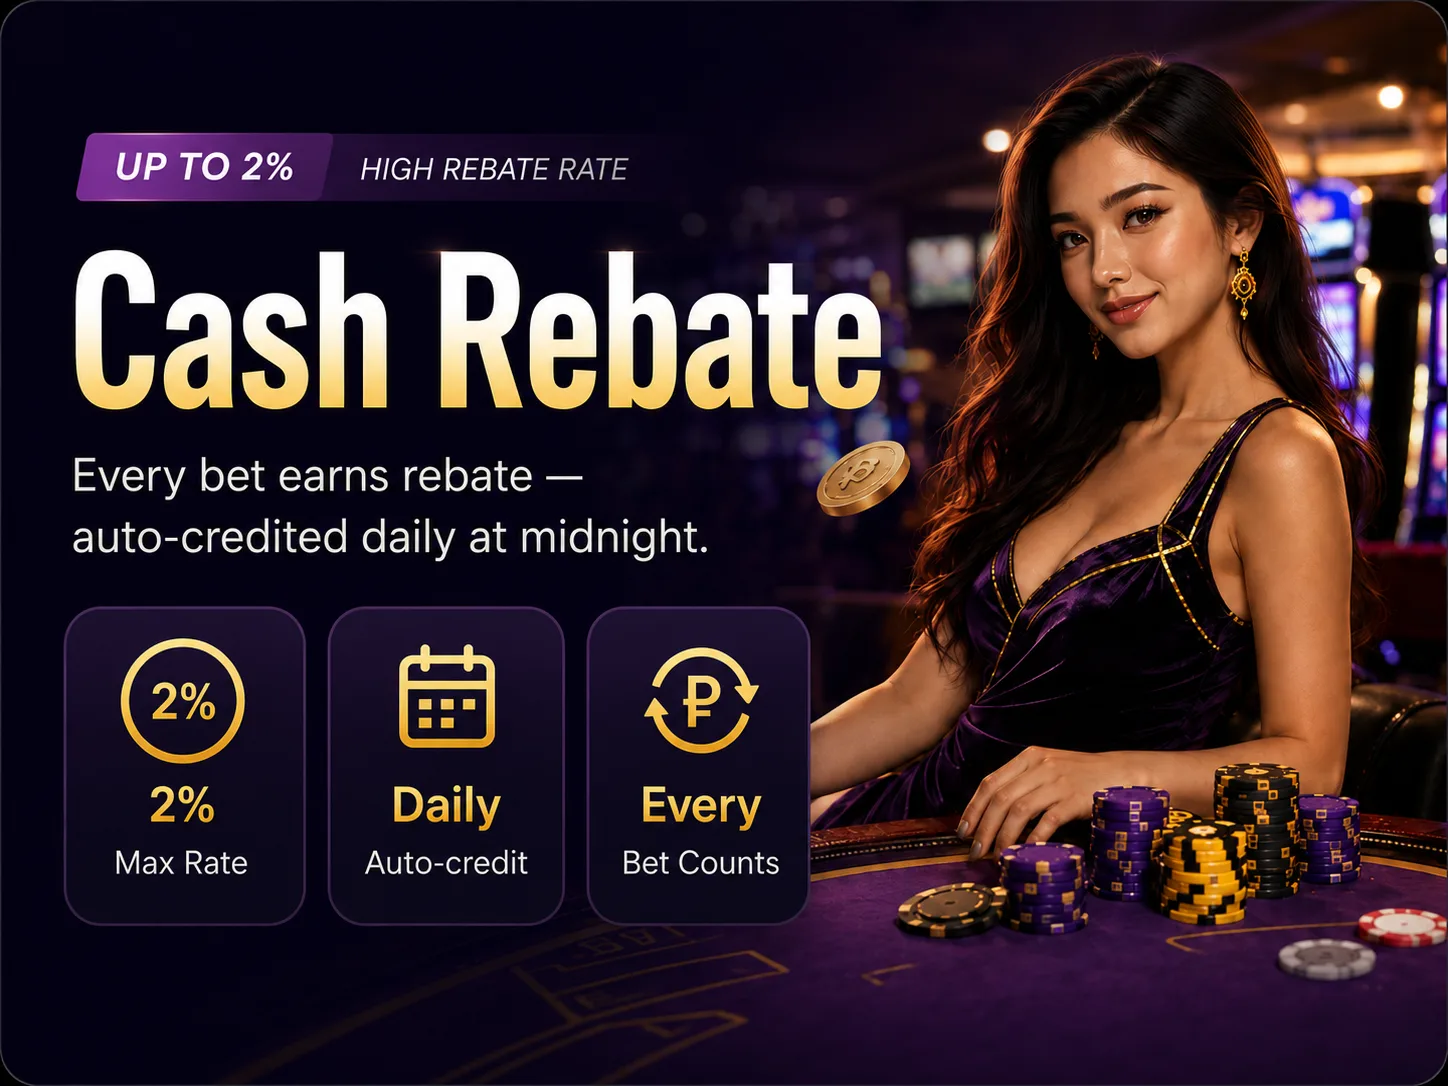
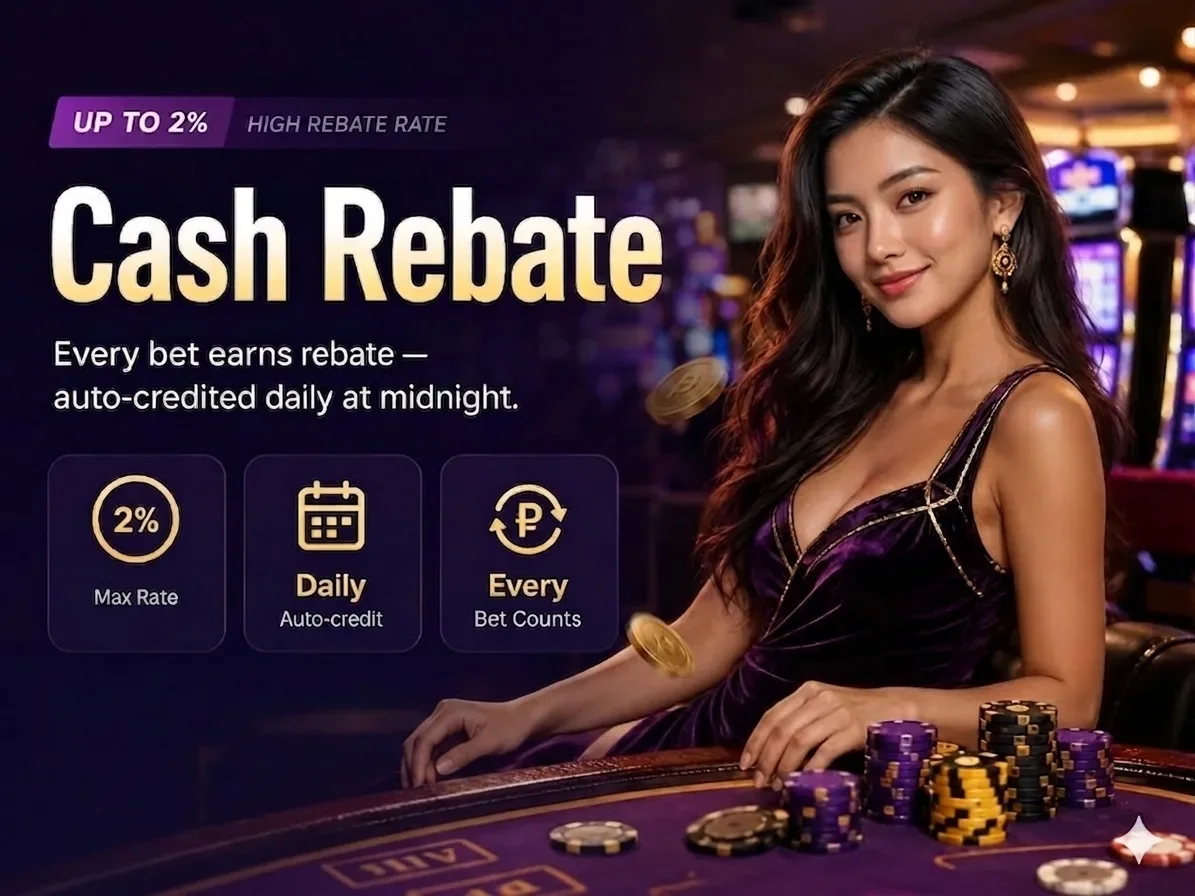
cashback 页二次调整：暖紫配色 + 紧凑布局
- 换用新版 hero / coins 图（无边框版 hero、透明 coins）
- 整页改暖紫渐变背景，驱散黑闷感；hero 上下渐隐融入、消除硬边
- 顶部留白给返回按钮，徽章不再被遮挡
- Today/Yesterday 改紧凑分段控件 + 金色质感选中，降低高度
- Total Bonus 压扁为横排，Claim 移到右侧，金币做暖光水印融入背景

diff --git a/apps/web-tma/src/views/CashbackPage.tsx b/apps/web-tma/src/views/CashbackPage.tsx
@@ -144,27 +144,35 @@ export default function CashbackPage({ onOpenGame, onOpenCategory }: Props) {
   }, [summary?.tierBreakdown])
 
   return (
-    <div className="page-main pb-6">
-      {/* Hero —— 成品 banner 图（含徽章 / 标题 / 数据卡） */}
-      <img
-        src={cashbackHero}
-        alt={t('cashback.pageTitle')}
-        className="block w-full select-none"
-        draggable={false}
-      />
+    <div
+      className="page-main pb-8 min-h-screen"
+      style={{ background: 'linear-gradient(180deg,#2a1d4e 0%,#1d1539 20%,#161031 46%,#100b24 100%)' }}
+    >
+      {/* Hero —— 成品 banner 图，顶部留白给返回按钮、上下渐隐融入页面（无硬边框） */}
+      <div className="relative">
+        <div className="h-9" style={{ height: 'calc(2.25rem + env(safe-area-inset-top, 0px))' }} />
+        <img
+          src={cashbackHero}
+          alt={t('cashback.pageTitle')}
+          className="block w-full select-none"
+          draggable={false}
+        />
+        <div className="pointer-events-none absolute inset-x-0 top-0 h-16 bg-gradient-to-b from-[#2a1d4e] from-[42%] to-transparent" />
+        <div className="pointer-events-none absolute inset-x-0 bottom-0 h-16 bg-gradient-to-b from-transparent to-[#2a1d4e]" />
+      </div>
 
-      {/* 今日 / 昨日 药丸 Tab */}
-      <div className="mx-4 mt-3">
-        <div className="flex rounded-full p-1 gap-1 bg-violet-950/60 border border-violet-700/35">
+      {/* 今日 / 昨日 分段控件 —— 紧凑 + 金色质感选中 */}
+      <div className="mx-4 -mt-1">
+        <div className="flex rounded-2xl p-1 gap-1 bg-[#1f1740]/70 border border-violet-300/15 backdrop-blur-sm shadow-inner shadow-black/30">
           {(['today', 'yesterday'] as DateTab[]).map((tab) => (
             <button
               key={tab}
               type="button"
               onClick={() => setActiveTab(tab)}
-              className={`flex-1 py-2.5 rounded-full text-sm font-bold transition-all ${
+              className={`flex-1 py-2 rounded-xl text-sm font-bold transition-all ${
                 activeTab === tab
-                  ? 'bg-gradient-to-r from-amber-400 to-yellow-500 text-violet-950 shadow-md shadow-amber-500/25'
-                  : 'text-violet-300/70'
+                  ? 'bg-gradient-to-b from-amber-300 to-yellow-500 text-[#2a1a05] shadow-[0_2px_10px_rgba(245,158,11,0.4)]'
+                  : 'text-violet-200/55'
               }`}
             >
               {t(tab === 'today' ? 'cashback.tabToday' : 'cashback.tabYesterday')}
@@ -173,25 +181,28 @@ export default function CashbackPage({ onOpenGame, onOpenCategory }: Props) {
         </div>
       </div>
 
-      {/* 深紫 Total Bonus 卡 + 金币插画 + 领取按钮（金额=可领取池） */}
-      <div className="mx-4 mt-3 relative overflow-hidden rounded-2xl border border-violet-500/25 bg-gradient-to-br from-violet-900/45 via-[#1a1138]/85 to-[#130c26]/95">
+      {/* Total Bonus —— 紧凑横排，Claim 在右，金币暖光水印融入背景 */}
+      <div className="mx-4 mt-3 relative overflow-hidden rounded-2xl border border-amber-400/15 bg-gradient-to-r from-[#241844]/70 via-[#2c1e4a]/55 to-amber-900/20">
+        <div className="pointer-events-none absolute right-20 top-1/2 -translate-y-1/2 h-28 w-28 rounded-full bg-amber-400/20 blur-2xl" />
         <img
           src={cashbackCoins}
           alt=""
           aria-hidden="true"
-          className="pointer-events-none absolute -right-3 top-1/2 -translate-y-1/2 h-[150%] w-auto opacity-90"
+          className="pointer-events-none absolute right-24 top-1/2 -translate-y-1/2 h-[135%] w-auto opacity-55"
           draggable={false}
         />
-        <div className="relative px-5 py-4">
-          <p className="text-amber-200 font-black text-base leading-tight font-display">{t('cashback.totalBonus')}</p>
-          <p className="text-white font-black text-3xl font-display drop-shadow mt-1">
-            {amtStr(currency, token ? (progress?.claimable ?? 0) : 0)}
-          </p>
+        <div className="relative flex items-center justify-between gap-3 px-4 py-3.5">
+          <div className="min-w-0">
+            <p className="text-amber-200/90 font-bold text-[11px] uppercase tracking-wider">{t('cashback.totalBonus')}</p>
+            <p className="text-white font-black text-2xl font-display drop-shadow mt-0.5">
+              {amtStr(currency, token ? (progress?.claimable ?? 0) : 0)}
+            </p>
+          </div>
           <button
             type="button"
             onClick={() => void onClaim()}
             disabled={claiming || !token || !progress || progress.claimable <= 0}
-            className="mt-3 bg-gradient-to-r from-amber-400 to-yellow-500 text-violet-950 font-black text-sm rounded-full px-6 py-2.5 shadow-md shadow-amber-500/25 active:opacity-80 transition disabled:opacity-50"
+            className="flex-shrink-0 bg-gradient-to-b from-amber-300 to-yellow-500 text-[#2a1a05] font-black text-sm rounded-full px-6 py-2.5 shadow-[0_3px_12px_rgba(245,158,11,0.45)] active:opacity-80 transition disabled:opacity-50"
           >
             {claiming ? t('cashback.claiming') : t('cashback.claimBtn')}
           </button>
